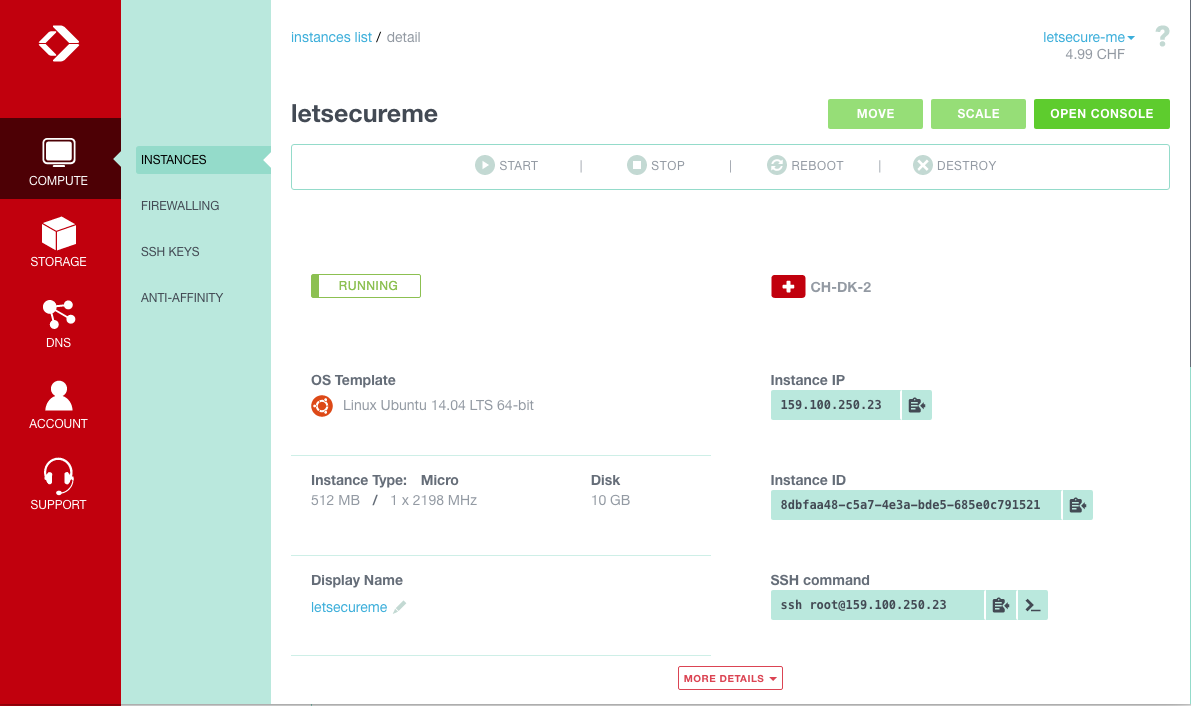
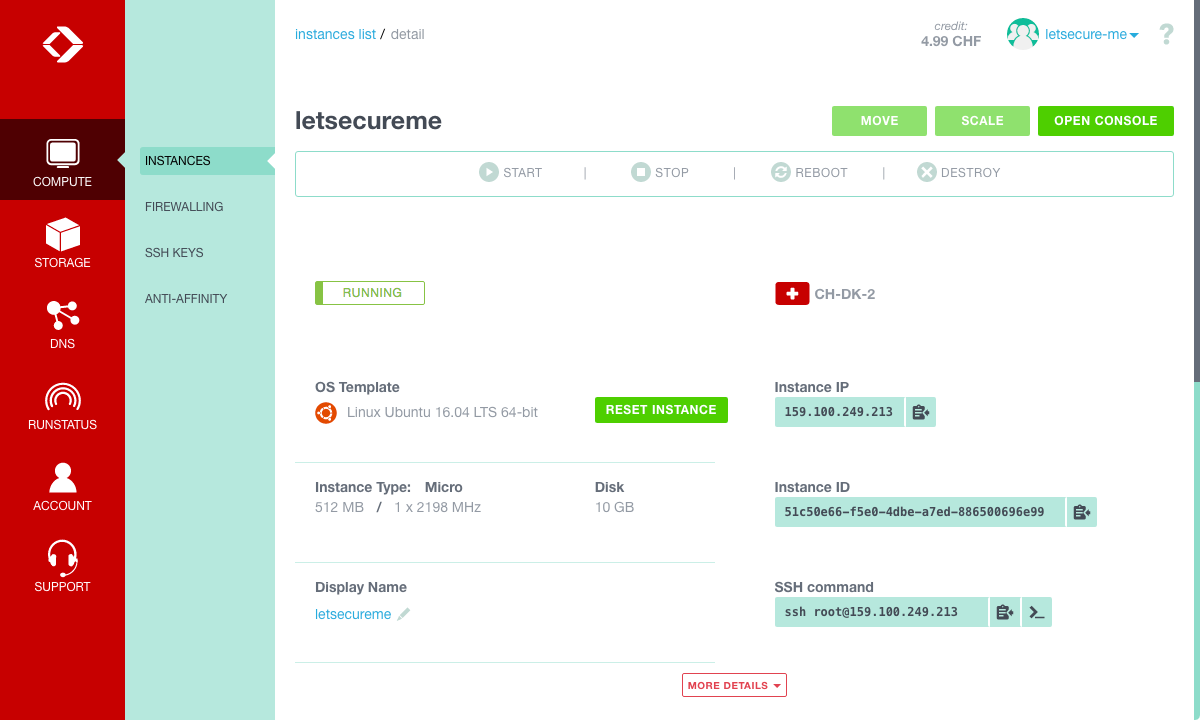
Refresh update1 (#9)
* Refresh update1

diff --git a/content/2016-03-15-lets-encrypt-and-nginx-state-of-the-art-of-a-secure-web-deployment.md b/content/2016-03-15-lets-encrypt-and-nginx-state-of-the-art-of-a-secure-web-deployment.md
@@ -1,5 +1,5 @@
 ---
-date: "2016-03-15T10:43:30+01:00"
+date: "2016-06-03T10:43:30+01:00"
 draft: false
 title: "Let's Encrypt & Nginx"
 subtitle: "State of the art secure web deployment"
@@ -34,16 +34,17 @@ Here are the steps you will go through:
 
 This tutorial will use [Exoscale](https://www.exoscale.ch) as cloud provider since they offer integrated firewall and DNS management. On top of that Exoscale has a strong focus on data safety / privacy and security. Of course you can follow along using any other cloud or traditional hosting service.
 
+**UPDATE 1**: This post has been updated on 2016-06-03 to reflect Let's encrypt evolution (out of beta, new Certbot client), and now deployed on the new Ubuntu 16.04 LTS instead of 14.04. The changes can be tracked [here](https://github.com/llambiel/letsecureme/pull/1)
+
 ## Let's Encrypt overview
 
 [Let's Encrypt](https://letsencrypt.org) is a new open source certificate authority (CA) providing free and automated SSL/TLS certificates. Their root certificate is well trusted by most [browsers](https://community.letsencrypt.org/t/which-browsers-and-operating-systems-support-lets-encrypt/4394), and they are actively trying to reduce the painful workflow of creation - validation - signing - installation - renewal of certificates. 
 
-A word of warning before moving on, there are still a few caveats to take into account when considering [Let's encrypt](https://letsencrypt.org):
+A word of warning before moving on, there are still a few caveats to take into account when considering [Let's encrypt](https://letsencrypt.org) and it's [Certbot](https://certbot.eff.org/) client:
 
-* It's still in **beta** phase.
 * It requires root privileges.
 * The client does not yet "officially" support Nginx (but it works flawlessly).
-* It installs dependencies automatically (like [Augeas](http://augeas.net/), [gcc](https://gcc.gnu.org/), [Python](https://www.python.org/)).
+* It requires a few dependencies (ex. [Python](https://www.python.org/)).
 * Throttling is enforced so you cannot request more than 5 certificates per week for a given domain.
 * Certificate is valid for 90 days.
 
@@ -55,7 +56,7 @@ The official documentation can be found [here](http://letsencrypt.readthedocs.or
 
 Let's begin by spawning a new cloud instance. First of all you'll need a public SSH key at hand. If you don't have your own key, or want a quick setup, Exoscale lets you generate one on the fly before starting your machine. Go under the SSH Keys menu and create your key. [They have a guideline](https://community.exoscale.ch/documentation/compute/ssh-keypairs/) if this stuff is new for you. This tutorial will assume you know what an SSH key is and how to use it.
 
-On the [Exoscale portal](https://portal.exoscale.ch) (or the cloud provider of your choice), start a Linux Ubuntu 14.04. For this demo a micro instance (512mb RAM, 1 Vcpu & 10GB disk) will be more than enough. Choose your SSH key on creation and verify that the "default" Security Group is checked (more on that later).
+On the [Exoscale portal](https://portal.exoscale.ch) (or the cloud provider of your choice), start a Linux Ubuntu 16.04. For this demo a micro instance (512mb RAM, 1 Vcpu & 10GB disk) will be more than enough. Choose your SSH key on creation and verify that the "default" Security Group is checked (more on that later).
 
 Within a few seconds our instance is available and ready for use. You can now note down its IP address in order to proceed with the DNS setup.
 
@@ -125,15 +126,9 @@ It's good practice to install [fail2ban](http://www.fail2ban.org/wiki/index.php/
 
 ## Basic Nginx Setup
 
-Now that everything is secured you may take care of Nginx. We're not going to install the package from the Ubuntu repository as we will require features (like HTTP/2) that can only be found in the latest "mainline" release branch. You can add the Nginx official repository using:
+Now that everything is secured you may take care of Nginx. We're going to install the package from the Ubuntu repository:
 
-    # Sadly the key is being served over http, so you need to check it's sha256 hash to ensure that it hasn't been somehow compromised
-    wget --quiet http://nginx.org/keys/nginx_signing.key -O nginx_signing.key && sha256sum nginx_signing.key
[1 lines of base64/hex data omitted]
-    # Please ensure that you get the same result before proceeding further
-    sudo apt-key add nginx_signing.key
-    echo "deb http://nginx.org/packages/mainline/ubuntu/ trusty nginx" | sudo tee --append /etc/apt/sources.list.d/nginx_org_packages_mainline_ubuntu.list
-    sudo apt-get update && sudo apt-get install -y nginx
+    sudo apt-get install -y nginx
 
 Create the target folder from where our website will be served:
 
@@ -145,10 +140,10 @@ Create the target folder from where our website will be served:
 
 Remove the default Nginx configuration and start with a fresh blank file:
 
-    sudo mv /etc/nginx/conf.d/default.conf /etc/nginx/conf.d/default.conf.orig
-    sudo touch /etc/nginx/conf.d/default.conf
+    sudo rm /etc/nginx/sites-enabled/default
+    sudo touch /etc/nginx/sites-enabled/default.conf
 
-[Let's Encrypt](https://letsencrypt.org) client will need to create some temporary files required to authenticate the domain for which we're requesting the certificate. To allow this you need to adjust the Nginx configuration block in `/etc/nginx/conf.d/default.conf` with the following:
+[Certbot](https://certbot.eff.org/) client will need to create some temporary files required to authenticate the domain for which we're requesting the certificate. To allow this you need to adjust the Nginx configuration block in `/etc/nginx/sites-enabled/default.conf` with the following:
 
     server {
         listen 80;
@@ -162,28 +157,28 @@ Reload Nginx to apply our configuration change and we're done with Nginx for the
 
 ## Let's Encrypt setup, SSL certificates and Nginx HTTPS config
 
-Go for Let's Encrypt. As per [the official documentation](https://letsencrypt.readthedocs.org/en/latest/intro.html#installation), you need to clone its [GIT](https://github.com/letsencrypt/letsencrypt) repository and launch `letsencrypt-auto`:
+Go for Let's Encrypt. As per [the official documentation](https://certbot.eff.org/#ubuntuxenial-nginx), Certbot (Let's Encrypt client) can be installed using APT:
 
-    sudo apt-get install -y git
-    sudo git clone https://github.com/letsencrypt/letsencrypt /opt/letsencrypt
-    /opt/letsencrypt/letsencrypt-auto
+    sudo apt-get -y install letsencrypt
 
-Note that as said in the beginning, the setup script will install all the required dependencies automatically. Although convenient, this implies that you lose some control of what is installed on your machine.
+Note that as said in the beginning, the client requires a few dependencies.
 
 You can now request a certificate for your domain. You'll get prompted to provide your email address for the expiring notifications and accept the Terms:
 
     export DOMAINS="yourdomain.here,www.yourdomain.here"
     export DIR=/var/www/demo
-    /opt/letsencrypt/letsencrypt-auto certonly --server https://acme-v01.api.letsencrypt.org/directory -a webroot --webroot-path=$DIR -d $DOMAINS
+    sudo letsencrypt certonly -a webroot --webroot-path=$DIR -d $DOMAINS
 
 You need of course to use your own domain name in the `DOMAINS` list.
 
 Our cert should now be issued and installed!
 
     IMPORTANT NOTES:
+    - If you lose your account credentials, you can recover through
+      e-mails sent to xxx@xxx.xx.
     - Congratulations! Your certificate and chain have been saved at
       /etc/letsencrypt/live/letsecure.me/fullchain.pem. Your cert will
-      expire on 2016-XX-XX. To obtain a new version of the certificate in
+      expire on 201X-XX-XX. To obtain a new version of the certificate in
       the future, simply run Let's Encrypt again.
     - Your account credentials have been saved in your Let's Encrypt
       configuration directory at /etc/letsencrypt. You should make a
@@ -193,10 +188,11 @@ Our cert should now be issued and installed!
     - If you like Let's Encrypt, please consider supporting our work by:
 
     Donating to ISRG / Let's Encrypt:   https://letsencrypt.org/donate
+    Donating to EFF:                    https://eff.org/donate-le 
 
-Let's Encrypt keeps configuration and certificates organized under `/etc/letsencrypt`. The [Let's Encrypt documentation](https://letsencrypt.readthedocs.org/en/latest/using.html#where-are-my-certificates) will give you detailed information about the structure and the content of the directory.
+Certbot keeps configuration and certificates organized under `/etc/letsencrypt`. The [Certbot documentation](https://certbot.eff.org/docs/using.html#where-are-my-certificates) will give you detailed information about the structure and the content of the directory.
 
-To use your new certificate you need to instruct Nginx to serve it and bind the port 443 on ssl. You may use the following minimal configuration block in `/etc/nginx/conf.d/default.conf`.
+To use your new certificate you need to instruct Nginx to serve it and bind the port 443 on ssl. You may use the following minimal configuration block in `/etc/nginx/sites-enabled/default.conf`.
 
     server {
         listen 443 ssl;
@@ -220,7 +216,7 @@ Save the following in a file called renewCerts.sh.
     #!/bin/sh
     # This script renews all the Let's Encrypt certificates with a validity < 30 days
 
-    if ! /opt/letsencrypt/letsencrypt-auto renew > /var/log/letsencrypt/renew.log 2>&1 ; then
+    if ! letsencrypt renew > /var/log/letsencrypt/renew.log 2>&1 ; then
         echo Automated renewal failed:
         cat /var/log/letsencrypt/renew.log
         exit 1
@@ -246,13 +242,13 @@ Let's pimp our Nginx config a bit to improve our rating!
 
 ## Nginx SSL/TLS hardening 
 
-Remove the actual config in `/etc/nginx/conf.d/default.conf` and replace it by the block below. Remember to modify the block with your own domain name:
+Remove the actual config in `/etc/nginx/sites-enabled/default.conf` and replace it by the block below. Remember to modify the block with your own domain name:
 
     server {
         listen 80;
         listen 443 ssl http2;
         server_name yourdomain.here www.yourdomain.here;
-        ssl_protocols TLSv1 TLSv1.1 TLSv1.2;
+        ssl_protocols TLSv1.2;
         ssl_ciphers EECDH+AES128:RSA+AES128:EECDH+AES256:RSA+AES256:EECDH+3DES:RSA+3DES:!MD5;
         ssl_prefer_server_ciphers On;
         ssl_certificate /etc/letsencrypt/live/yourdomain.here/fullchain.pem;
@@ -291,9 +287,13 @@ Let's review some important config items that we've just added:
 
 With this directive, you tell Nginx to listen over SSL and also support the connection over the new [HTTP/2](https://en.wikipedia.org/wiki/HTTP/2) standard, if the client browser support / request it. Please note that HTTP/2 is SSL/TLS only!
 
+    ssl_protocols TLSv1.2;
+
+Disable old and weak SSLv2/SSLv3 & early TLS protocols, and allow only the TLSv1.2. Such configuration will prevent older clients to connect to your website (ex. IE10 and older, Android 4.3 and older, Java6 & 7). So depending on your website target audience, you may choose to keep older TLS protocols using the configuration below. 
+
     ssl_protocols TLSv1 TLSv1.1 TLSv1.2;
 
-Disable old and weak SSLv2/SSLv3 protocols and allow only the TLS ones.
+You may take into account that the old and weak TLSv1.0 will be end of life on 30 June 2018 for [PCI](http://blog.pcisecuritystandards.org/migrating-from-ssl-and-early-tls). You can found the browser support list [here](https://en.wikipedia.org/wiki/Template:TLS/SSL_support_history_of_web_browsers)
 
     ssl_ciphers EECDH+AES128:RSA+AES128:EECDH+AES256:RSA+AES256:EECDH+3DES:RSA+3DES:!MD5;
     ssl_prefer_server_ciphers On;
@@ -358,7 +358,7 @@ Your final Nginx configuration should look like this:
          listen 80;
          listen 443 ssl http2;
          server_name yourdomain.here www.yourdomain.here;
-         ssl_protocols TLSv1 TLSv1.1 TLSv1.2;
+         ssl_protocols TLSv1.2;
          ssl_ciphers EECDH+AES128:RSA+AES128:EECDH+AES256:RSA+AES256:EECDH+3DES:RSA+3DES:!MD5;
          ssl_prefer_server_ciphers On;
          ssl_certificate /etc/letsencrypt/live/yourdomain.here/fullchain.pem;
